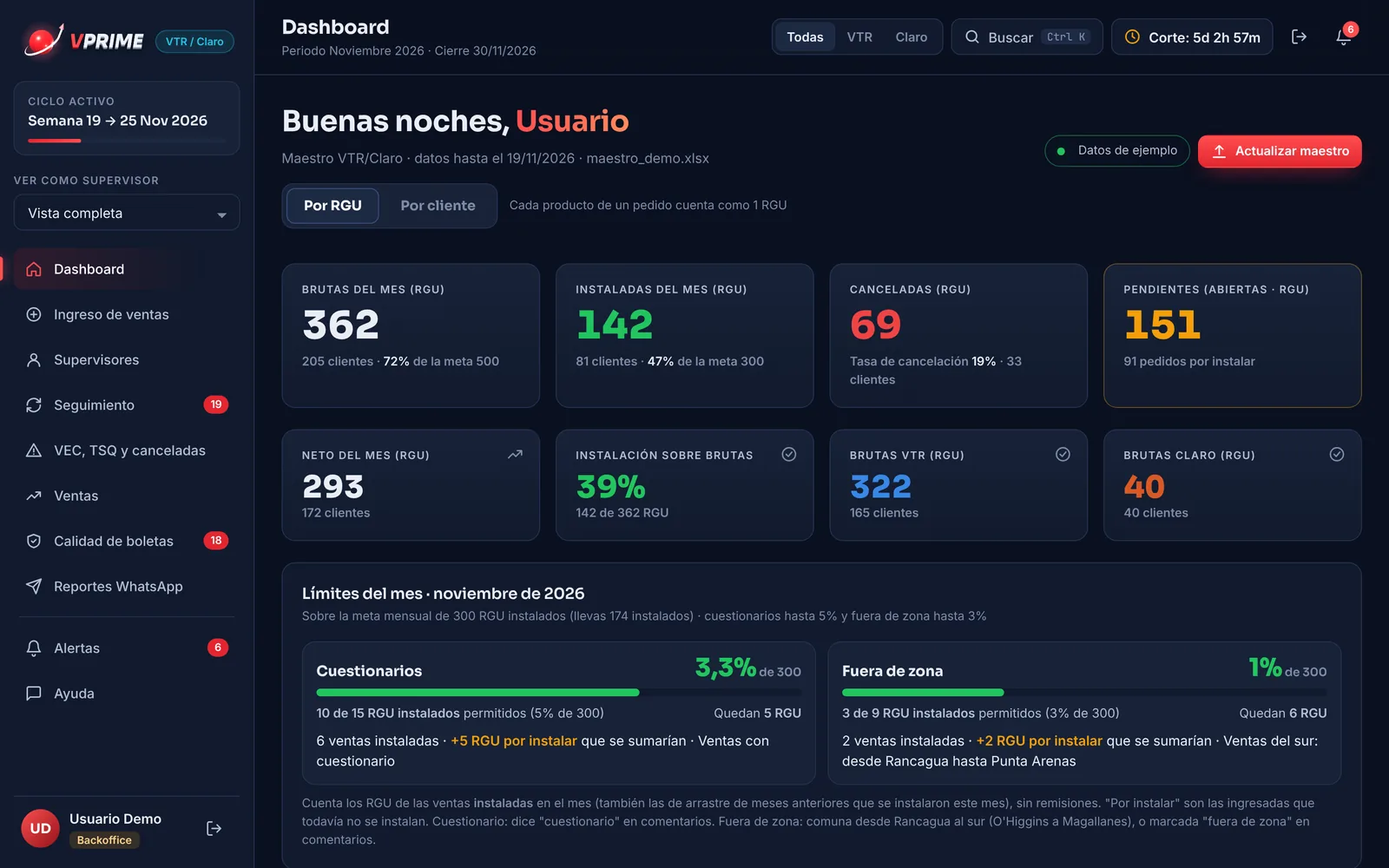
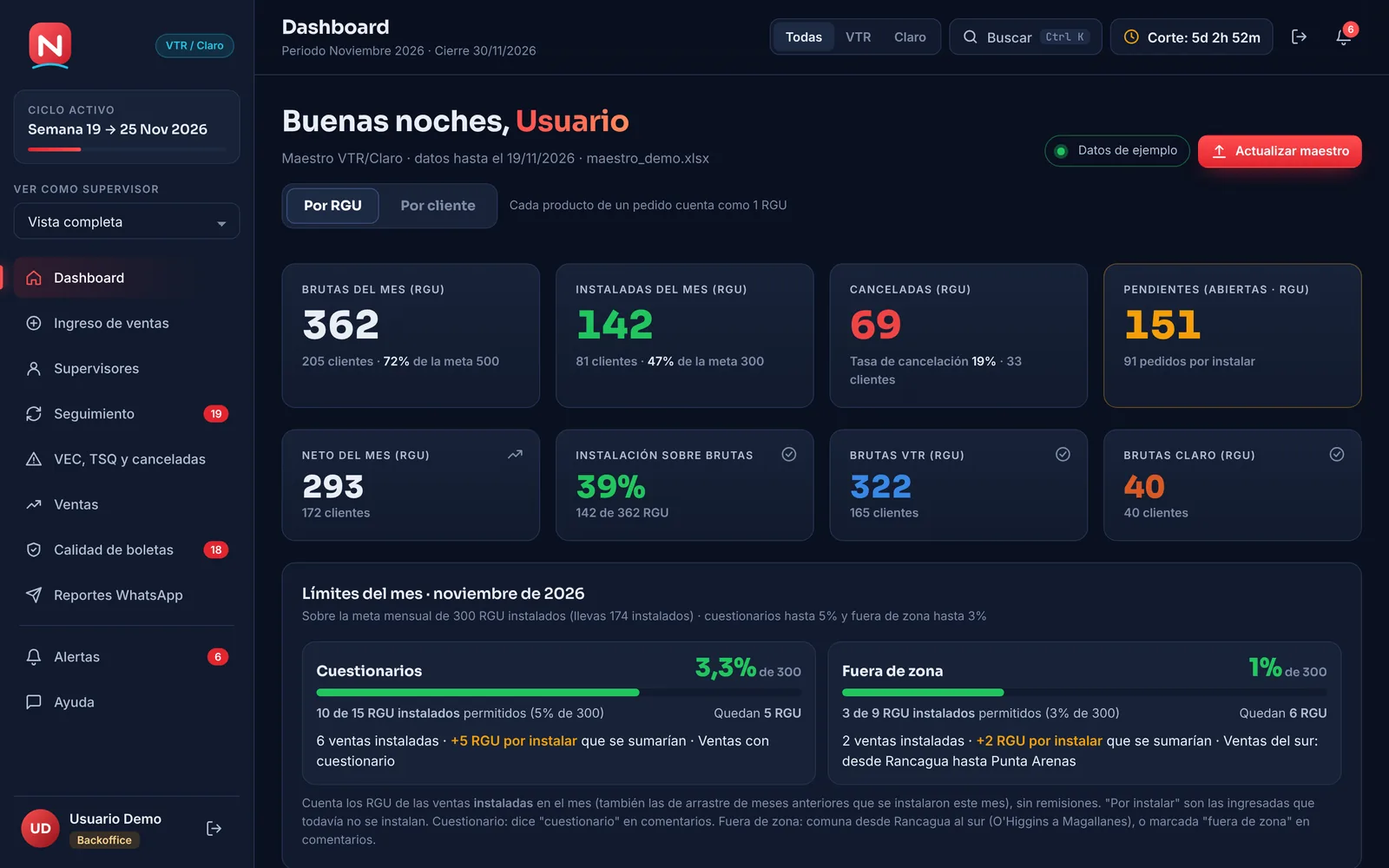
Portal de Ventas sin el nombre de la empresa: marca, nombres y datos ficticios
Claude-Session: https://claude.ai/code/session_011Kgio7roymSgEiRKBt3G3E

diff --git a/portal-ventas/index.html b/portal-ventas/index.html
@@ -13,14 +13,14 @@
 <meta name="apple-mobile-web-app-capable" content="yes">
 <meta name="mobile-web-app-capable" content="yes">
 <meta name="apple-mobile-web-app-status-bar-style" content="black-translucent">
-<meta name="apple-mobile-web-app-title" content="VPrime">
+<meta name="apple-mobile-web-app-title" content="NovaVentas">
 <link rel="icon" type="image/png" sizes="192x192" href="icons/icon-192.png">
 <link rel="apple-touch-icon" href="icons/apple-touch-icon.png">
 <link rel="preconnect" href="https://fonts.googleapis.com">
 <link rel="preconnect" href="https://fonts.gstatic.com" crossorigin>
 <link rel="stylesheet" href="https://fonts.googleapis.com/css2?family=Sora:wght@500;600;700;800&family=Inter:wght@400;500;600&family=JetBrains+Mono:wght@500&display=swap">
 <style>
-/* Layout: sidebar de navegación fija + área de trabajo con barra superior; todo en un navy profundo con el rojo VPrime como acento de marca. */
+/* Layout: sidebar de navegación fija + área de trabajo con barra superior; todo en un navy profundo con el rojo NovaVentas como acento de marca. */
 :root {
   color-scheme: dark;
   --bg: #0a1020;
@@ -31,7 +31,7 @@
   --fg: #e9edf5;
   --fg-2: #b4bed3;
   --muted: #7f8ba6;
-  --accent: #e3262f;          /* rojo VPrime */
+  --accent: #e3262f;          /* rojo NovaVentas */
   --accent-hi: #ff4d4f;
   --accent-soft: rgba(227, 38, 47, .14);
   --cyan: #22c3e6;
@@ -803,7 +803,7 @@ body.sup-mode .bell-dot { background: var(--accent); }
   <div class="login-visual">
     <canvas id="globe" aria-hidden="true"></canvas>
     <canvas id="logo3d" aria-hidden="true"></canvas>
-    <img src="assets/vprime-logo-hd.svg" alt="VPrime" width="132" height="114">
+    <img src="assets/logo-demo.svg" alt="NovaVentas" width="132" height="114">
     <div class="login-copy">
       <div class="eyebrow" style="color:#ff9a9b">Portal interno · VTR / Claro</div>
       <h1>Todas tus ventas, <em>en un solo lugar.</em></h1>
@@ -819,9 +819,9 @@ body.sup-mode .bell-dot { background: var(--accent); }
     <form class="login-card" id="loginForm" novalidate>
       <div>
         <h2>Ingreso colaboradores</h2>
-        <div class="sub" id="lgSub">Usa tu RUT o correo corporativo @vprime.cl</div>
+        <div class="sub" id="lgSub">Usa tu RUT o correo corporativo @novaventas.cl</div>
       </div>
-      <div class="restricted"><svg class="i" viewBox="0 0 24 24"><rect x="4" y="11" width="16" height="10" rx="2"/><path d="M8 11V7a4 4 0 0 1 8 0v4"/></svg><span>Acceso restringido a personal de VPrime. Cada ingreso queda registrado.</span></div>
+      <div class="restricted"><svg class="i" viewBox="0 0 24 24"><rect x="4" y="11" width="16" height="10" rx="2"/><path d="M8 11V7a4 4 0 0 1 8 0v4"/></svg><span>Acceso restringido a personal de NovaVentas. Cada ingreso queda registrado.</span></div>
       <div class="field">
         <label for="lgUser" id="lgUserLbl">RUT o correo</label>
         <div class="input-icon"><svg class="i" viewBox="0 0 24 24"><circle cx="12" cy="8" r="4"/><path d="M4 21a8 8 0 0 1 16 0"/></svg><input class="input" id="lgUser" autocomplete="username"></div>
@@ -833,7 +833,7 @@ body.sup-mode .bell-dot { background: var(--accent); }
       </div>
       <div id="lgErr"></div>
       <button class="btn primary block" id="lgBtn" type="submit">Ingresar <svg class="i" viewBox="0 0 24 24"><path d="M5 12h14M13 6l6 6-6 6"/></svg></button>
-      <div class="hint" id="lgForgotBox" style="text-align:center;color:var(--muted);font-size:12px">¿Olvidaste tu clave? Pídela a tu supervisor o a soporte@tuempresa.cl</div>
+      <div class="hint" id="lgForgotBox" style="text-align:center;color:var(--muted);font-size:12px">¿Olvidaste tu clave? Pídela a tu supervisor o a soporte@novaventas.cl</div>
     </form>
   </div>
 </section>
@@ -842,7 +842,7 @@ body.sup-mode .bell-dot { background: var(--accent); }
 <div id="app" hidden>
   <aside class="sidebar" id="sidebar">
     <div class="brand-row">
-      <a class="brand-3d" id="brand3d" href="#dashboard" aria-label="VPrime, ir al dashboard"><canvas width="92" height="92" hidden aria-hidden="true"></canvas><span class="wordmark" hidden><b>V</b>PRIME</span><img src="assets/vprime-logo-hd.svg" alt="VPrime" width="64" height="55"></a>
+      <a class="brand-3d" id="brand3d" href="#dashboard" aria-label="NovaVentas, ir al dashboard"><canvas width="92" height="92" hidden aria-hidden="true"></canvas><span class="wordmark" hidden><b>N</b>OVA</span><img src="assets/logo-demo.svg" alt="NovaVentas" width="64" height="55"></a>
       <span class="brand-tag">VTR / Claro</span>
     </div>
     <div class="cycle">
@@ -858,7 +858,7 @@ body.sup-mode .bell-dot { background: var(--accent); }
       <button class="btn sm ghost" id="logoutSide" style="justify-content:flex-start;color:#ff8f93;border-color:rgba(227,38,47,.35)"><svg class="i" viewBox="0 0 24 24"><path d="M9 21H5a2 2 0 0 1-2-2V5a2 2 0 0 1 2-2h4M16 17l5-5-5-5M21 12H9"/></svg>Cerrar sesión</button>
       <div class="me">
         <div class="avatar">VP</div>
-        <div style="min-width:0"><b>Equipo VPrime</b><span class="role">Backoffice</span></div>
+        <div style="min-width:0"><b>Equipo NovaVentas</b><span class="role">Backoffice</span></div>
         <button class="icon-btn out" style="margin-left:auto" id="logout" title="Cerrar sesión" aria-label="Cerrar sesión"><svg class="i" viewBox="0 0 24 24"><path d="M9 21H5a2 2 0 0 1-2-2V5a2 2 0 0 1 2-2h4M16 17l5-5-5-5M21 12H9"/></svg></button>
       </div>
     </div>
@@ -914,7 +914,7 @@ function cargarLib(n) {
 }
 const xlsxListo = () => cargarLib('xlsx');
 // En teléfonos (o con ahorro de datos) el logo queda como imagen HD: el 3D pesa 589 KB y a ese tamaño se ve igual.
-const logo3DOk = () => !REDUCED && !matchMedia('(max-width: 900px)').matches && !(navigator.connection && navigator.connection.saveData);
+const logo3DOk = () => false && !REDUCED && !matchMedia('(max-width: 900px)').matches && !(navigator.connection && navigator.connection.saveData);
 const fmt = n => Number(n).toLocaleString('es-CL');
 const clp = n => '$' + fmt(n);
 
@@ -1160,7 +1160,7 @@ const pct = (a, b) => b ? Math.round(a / b * 100) : 0;
 const EST_CODES = ['en_plazo', 'fuera_plazo', 'por_vencer', 'vencida'];
 
 
-// Metas de VPrime: siempre 100% de boletas pagadas en plazo y 100% de ventas instaladas.
+// Metas de NovaVentas: siempre 100% de boletas pagadas en plazo y 100% de ventas instaladas.
 // VTR exige un mínimo de 90% en boletas: entre 90% y 100% se muestra en amarillo (cumple VTR, falta para la meta).
 const META_BOL = 1, MIN_VTR_BOL = .9, META_INST = 1;
 const toneBol = p => p == null ? 'var(--muted)' : p >= META_BOL ? 'var(--good)' : p >= MIN_VTR_BOL ? 'var(--warn)' : 'var(--crit)';
@@ -1480,7 +1480,7 @@ function alertas() {
     const rows = segRows(), by = t => rows.filter(r => r.acc && r.acc.tipo === t).length;
     add('serious', by('instalar') + by('cancelar'), 'Ventas con estado desactualizado en la planilla', 'VTR ya las tiene instaladas o canceladas, pero la planilla no. Se actualizan con un clic.', '#seguimiento', 'Actualizar', () => { SEG.soloAccion = by('instalar') ? 'instalar' : 'cancelar'; });
     add('warn', by('conflicto'), 'Planilla y VTR no coinciden', 'La planilla dice instalada o cancelada, pero VTR la tiene abierta.', '#seguimiento', 'Revisar', () => { SEG.soloAccion = 'conflicto'; });
-    add('warn', by('agregar'), 'Pedidos del maestro que faltan en la planilla', 'Están en el maestro de VPrime pero nadie los ingresó.', '#seguimiento', 'Agregar', () => { SEG.soloAccion = 'agregar'; });
+    add('warn', by('agregar'), 'Pedidos del maestro que faltan en la planilla', 'Están en el maestro de NovaVentas pero nadie los ingresó.', '#seguimiento', 'Agregar', () => { SEG.soloAccion = 'agregar'; });
     add('info', by('motivo'), 'Canceladas sin motivo', 'Sin el motivo no se puede saber por qué se caen las ventas.', '#seguimiento', 'Anotar motivos', () => { SEG.soloAccion = 'motivo'; });
   }
   // Respaldo semanal (solo para quien puede descargarlo)
@@ -1564,7 +1564,7 @@ function viewAyuda(el) {
     ${sec('Rutina diaria', ['<b>Mañana:</b> subir el maestro VTR/Claro del día (Dashboard → Actualizar maestro).', '<b>Durante el día:</b> ingresar cada venta en <b>Ingreso de ventas</b> y actualizar su estado (COMPLETADO, REAGENDADO…) directo en la tabla.', '<b>12:00, 16:00, 19:00 y 21:00:</b> enviar el corte desde <b>Reportes WhatsApp</b>.', '<b>Antes de cerrar:</b> revisar <b>Alertas</b> y <b>Seguimiento</b> para dejar la planilla al día con VTR.'])}
     ${sec('Archivos que se suben', ['<b>Maestro VTR/Claro</b> (diario): hoja con NUM_PEDIDO y estado_pedido. Alimenta Dashboard, Ventas y Seguimiento.', '<b>Planilla de emisiones</b> (solo para migrar meses anteriores): Ingreso de ventas → Importar planilla, una hoja por mes.', '<b>Reporte de 1° boleta</b> (mensual): Calidad de boletas → Subir reporte. Luego, "Pasar estados a la planilla".', 'Cualquiera de los tres se reconoce solo, aunque se suba en otra sección.'])}
     ${sec('Secciones', ['<b>Dashboard:</b> brutas, instaladas, canceladas y pendientes del maestro, metas por plaza y calidad.', '<b>Ingreso de ventas:</b> reemplaza la planilla; cada venta queda registrada con quién la ingresó y su tipo (venta normal, error TSQ, error NAP o reingreso), y tiene su ficha con instalación, reagenda, boleta e historial de cambios.', '<b>Supervisores:</b> una tarjeta por supervisor con sus ventas, instaladas, por instalar, sin agenda y canceladas; al tocarla se buscan y actualizan sus ventas.', '<b>Plan modificado:</b> si el plan o los RGU que quedaron en VTR/Claro no son los vendidos, la venta aparece en Revisiones y Alertas para apelar.', '<b>Seguimiento:</b> cruza la planilla con el maestro y propone las correcciones.', '<b>VEC, TSQ y canceladas:</b> estado de cada VEC (por pedir, pedida, aprobada, rechazada), tickets de error TSQ/NAP y motivo de cada cancelación.', '<b>Ventas:</b> los pedidos del maestro con su estado en VTR/Claro.', '<b>Calidad de boletas:</b> pagadas en plazo, cobranza del día, reclamos y calidad por supervisor y ejecutivo.', '<b>Reportes WhatsApp:</b> cortes con VIÑA // RM // OTROS listos para enviar.', '<b>Roles:</b> el <b>backoffice</b> ve y actualiza las ventas de todos los supervisores (en Ingreso de ventas, panel "Por supervisor"); cada <b>supervisor</b> ve solo "Mis ventas", sin editar; <b>solo lectura</b> mira todo sin cambiar nada.'])}
-    ${sec('Cómo se calcula', ['<b>RGU</b> = productos de la venta (Fibra 800 + TV = 2 RGU).', '<b>Calidad:</b> RGU pagados en plazo ÷ (total de RGU − pagados fuera de plazo). Meta VPrime: 100% (VTR exige mínimo 90%). Pagar hasta el día 8 (vencimiento + 8) es en plazo.', '<b>Reporte diario:</b> RGU emitidos hoy, sin remisiones. <b>Mensual:</b> sin remisiones ni ventas con error TSQ/NAP o ticket.', '<b>VIÑA</b> = supervisor Rodrigo Vera, <b>RM</b> = Camila Herrera, <b>OTROS</b> = el resto (se cambia en Reportes).'])}
+    ${sec('Cómo se calcula', ['<b>RGU</b> = productos de la venta (Fibra 800 + TV = 2 RGU).', '<b>Calidad:</b> RGU pagados en plazo ÷ (total de RGU − pagados fuera de plazo). Meta NovaVentas: 100% (VTR exige mínimo 90%). Pagar hasta el día 8 (vencimiento + 8) es en plazo.', '<b>Reporte diario:</b> RGU emitidos hoy, sin remisiones. <b>Mensual:</b> sin remisiones ni ventas con error TSQ/NAP o ticket.', '<b>VIÑA</b> = supervisor Rodrigo Vera, <b>RM</b> = Camila Herrera, <b>OTROS</b> = el resto (se cambia en Reportes).'])}
   </div>
   <div class="card" id="ayudaAdmin"></div>`;
   renderAyudaAdmin();
@@ -1572,7 +1572,7 @@ function viewAyuda(el) {
 function renderAyudaAdmin() {
   const box = $('#ayudaAdmin'); if (!box) return;
   box.innerHTML = `<h3 style="font-size:16px;margin-bottom:6px">Soporte y administración</h3>
-    <p class="note" style="margin:0 0 12px">Para crear usuarios, cambiar permisos o reportar un problema, contacta a quien administra el portal en VPrime.</p>
+    <p class="note" style="margin:0 0 12px">Para crear usuarios, cambiar permisos o reportar un problema, contacta a quien administra el portal en NovaVentas.</p>
     <div style="display:flex;gap:10px;flex-wrap:wrap"><button class="btn sm" id="ayInstall">${ic('download')}Instalar en el teléfono</button>${STANDALONE ? `<button class="btn sm" id="ayClave">${ic('shield')}Cambiar mi contraseña</button>` : ''}</div>
     ${puedeRespaldar() ? `<div style="margin-top:18px;padding-top:16px;border-top:1px solid var(--line)">
       <h3 style="font-size:15px;margin-bottom:4px">Respaldo completo</h3>
@@ -1581,7 +1581,7 @@ function renderAyudaAdmin() {
       <div id="bkMsg" class="note" style="margin-top:8px">${RESPALDO.ult ? `Último respaldo: ${fmtFecha(isoOf(new Date(RESPALDO.ult.en)))}${RESPALDO.ult.por ? ' por ' + esc(RESPALDO.ult.por) : ''}.` : ''}</div></div>` : ''}
     ${STANDALONE && ROLE.rol === 'admin' && !ROLE.preview ? `<div class="dt-box"><h3 style="font-size:15px;margin-bottom:4px">Cambiar la contraseña de un usuario</h3>
       <p class="note" style="margin:0 0 12px">Si a alguien no le llega el correo de "¿Olvidaste tu contraseña?", asígnale aquí una clave temporal y díctasela. Después puede cambiarla él mismo.</p>
-      <form id="ccForm" class="form-grid" novalidate style="align-items:end"><div class="field"><label for="ccMail">Correo del usuario</label><input class="input" type="email" id="ccMail" autocomplete="off" placeholder="nombre@vprime.cl"></div>
+      <form id="ccForm" class="form-grid" novalidate style="align-items:end"><div class="field"><label for="ccMail">Correo del usuario</label><input class="input" type="email" id="ccMail" autocomplete="off" placeholder="nombre@novaventas.cl"></div>
         <div class="field"><label for="ccPass">Clave temporal (mínimo 8)</label><input class="input mono" type="text" id="ccPass" autocomplete="off"></div>
         <div class="field"><button class="btn sm" type="button" id="ccGen">Generar una</button></div>
         <div class="field"><button class="btn sm primary" type="submit" id="ccSave">Cambiar contraseña</button></div></form><div id="ccMsg" class="note" style="margin-top:8px"></div></div>` : ''}
@@ -1621,7 +1621,7 @@ const fechaHora = iso => iso ? `${fmtFecha(isoOf(new Date(iso)))} ${new Date(iso
 function datosPanelHTML() {
   if (!verEstadoDatos()) return '';
   const head = `<h3 style="font-size:15px;margin-bottom:4px">Dónde quedan guardadas las ventas</h3>
-    <p class="note" style="margin:0 0 12px">Cada venta se guarda en la base de datos de VPrime (Supabase · PostgreSQL) en el momento en que se ingresa o se modifica, no en el teléfono ni en el computador. Cada cambio deja guardada la versión anterior, y la base hace una copia completa automática todas las noches.</p>`;
+    <p class="note" style="margin:0 0 12px">Cada venta se guarda en la base de datos de NovaVentas (Supabase · PostgreSQL) en el momento en que se ingresa o se modifica, no en el teléfono ni en el computador. Cada cambio deja guardada la versión anterior, y la base hace una copia completa automática todas las noches.</p>`;
   const wrap = h => `<div class="dt-box" id="datosBox">${head}${h}</div>`;
   if (!DATOS.e && !DATOS.err) { datosCargar().then(() => { if (currentView() === 'ayuda') renderAyudaAdmin(); }); return wrap('<p class="note">Consultando la base de datos…</p>'); }
   if (DATOS.err === 'falta') return wrap(`<div class="restricted">${ic('alertc')}<span><b>Falta activar los respaldos automáticos en la base.</b> ${ROLE.rol === 'admin' ? 'Abre Supabase → SQL Editor, pega el archivo <span class="mono">supabase/schema.sql</span> completo y presiona Run. Se puede ejecutar de nuevo sin perder datos.' : 'Pídele a un administrador que lo active.'}</span></div>`);
@@ -1717,8 +1717,8 @@ async function respaldo(tipo, dia) {
     const n = `${fmt(B.colecciones.emisiones.length)} ventas, ${fmt(B.colecciones.calidad.length)} períodos de calidad, ${fmt(B.colecciones.reclamos.length)} reclamos, ${fmt(B.colecciones.maestro.length)} maestros`;
     msg('Preparando el archivo…');
     const r = tipo === 'json'
-      ? await dl.save({ filename: `Respaldo_VPrime_${hoy}.json`, data: new TextEncoder().encode(JSON.stringify(B)) })
-      : await dl.save({ filename: `Respaldo_VPrime_${hoy}.xlsx`, data: new Uint8Array(XLSX.write(respaldoLibro(B), { bookType: 'xlsx', type: 'array', compression: true })) });
+      ? await dl.save({ filename: `Respaldo_NovaVentas_${hoy}.json`, data: new TextEncoder().encode(JSON.stringify(B)) })
+      : await dl.save({ filename: `Respaldo_NovaVentas_${hoy}.xlsx`, data: new Uint8Array(XLSX.write(respaldoLibro(B), { bookType: 'xlsx', type: 'array', compression: true })) });
     msg(r && r.status === 'saved' ? `Respaldo descargado: ${n}.` : `Descarga cancelada (${n}).`);
     if (r && r.status === 'saved') { try { await COB.db.doc('config/respaldo').set({ en: new Date().toISOString(), por: USER.name || '', tipo, ventas: B.colecciones.emisiones.length }); } catch (e) { /* sin permiso para anotar */ } }
   } catch (e) { msg('No se pudo armar el respaldo: ' + ((e && e.message) || 'error de conexión') + '. Intenta de nuevo.'); }
@@ -2031,7 +2031,7 @@ function viewDashboardReal(el) {
   </div>
   <div id="limDash"></div>
   ${M && (M.instalada.length || M.emision.length) ? `<div class="card">
-    <div class="card-h"><div><h3>Avance de metas por plaza</h3><p>${porRgu ? '' : 'Las metas son en RGU · '}${dias.mes ? `Día hábil ${dias.reales} de ${dias.mes} · quedan ${dias.restantes}` : 'Metas de la hoja dinámica'}${state.brand !== 'todas' ? ' · las metas son del total VPrime (VTR + Claro)' : ''}</p></div></div>
+    <div class="card-h"><div><h3>Avance de metas por plaza</h3><p>${porRgu ? '' : 'Las metas son en RGU · '}${dias.mes ? `Día hábil ${dias.reales} de ${dias.mes} · quedan ${dias.restantes}` : 'Metas de la hoja dinámica'}${state.brand !== 'todas' ? ' · las metas son del total NovaVentas (VTR + Claro)' : ''}</p></div></div>
     <div style="display:grid;gap:18px">${[['Instalación', M.instalada, 'inst'], ['Emisión (brutas)', M.emision, 'brutas']].filter(x => x[1].length).map(([t, list, k]) => maeMetaTable(t, list, k, A.rows, dias)).join('')}</div>
   </div>` : ''}
   <div class="card" id="cobDash"></div>
@@ -3146,7 +3146,7 @@ async function emiExport() {
   const ws = XLSX.utils.aoa_to_sheet(rows, { cellDates: true, dateNF: 'dd/mm/yyyy' });
   ws['!cols'] = [16, 12, 13, 24, 22, 24, 16, 30, 18, 12, 10, 10, 22, 22, 22, 12, 12, 12, 10, 14, 16, 16, 16, 18].map(w => ({ wch: w }));
   const wb = XLSX.utils.book_new(); XLSX.utils.book_append_sheet(wb, ws, mesLabel(EMI.mes).slice(0, 31));
-  try { const r = await dl.save({ filename: `Emisiones_ventas_VPrime_${EMI.mes}.xlsx`, data: new Uint8Array(XLSX.write(wb, { bookType: 'xlsx', type: 'array' })) }); if (r && r.status === 'saved') toast('Excel descargado', 'download'); }
+  try { const r = await dl.save({ filename: `Emisiones_ventas_NovaVentas_${EMI.mes}.xlsx`, data: new Uint8Array(XLSX.write(wb, { bookType: 'xlsx', type: 'array' })) }); if (r && r.status === 'saved') toast('Excel descargado', 'download'); }
   catch (e) { if (e && e.code === 'unavailable') toast('Las descargas no están disponibles en esta vista.', 'alertc'); }
 }
 
@@ -3351,7 +3351,7 @@ async function segRun(list, label) {
 
 
 
-/* ---------- LOGO VPRIME EN 3D (Three.js) ---------- */
+/* ---------- LOGO NOVAVENTAS EN 3D (Three.js) ---------- */
 // Esfera roja con estela blanca y flecha, como el logo. Devuelve una función para detenerla, o null si no hay WebGL.
 function makeLogo3D(canvas, opt = {}) {
   if (!window.THREE || !canvas) return null;
@@ -3505,26 +3505,26 @@ function updateBottomNav(cur) {
   });
 }
 $('#bnMore').addEventListener('click', () => $('#sidebar').classList.toggle('open'));
-const PORTAL_URL = window.VP_STANDALONE ? ((window.VPRIME_CONFIG || {}).appUrl || location.origin + location.pathname) : 'https://claude.ai/artifact/BZRdoPNhUP4QLB89qohyPU';
+const PORTAL_URL = window.VP_STANDALONE ? ((window.NOVAVENTAS_CONFIG || {}).appUrl || location.origin + location.pathname) : 'https://claude.ai/artifact/BZRdoPNhUP4QLB89qohyPU';
 function openInstall() {
   const link = PORTAL_URL;
   const enTelefono = matchMedia('(max-width: 900px)').matches;
   openDrawer(`
-  <div class="drawer-h"><div style="flex:1"><div class="eyebrow">Portal VPrime</div><h3>Tenerlo como app en el teléfono</h3></div><button class="icon-btn" data-close aria-label="Cerrar">${ic('x')}</button></div>
+  <div class="drawer-h"><div style="flex:1"><div class="eyebrow">Portal NovaVentas</div><h3>Tenerlo como app en el teléfono</h3></div><button class="icon-btn" data-close aria-label="Cerrar">${ic('x')}</button></div>
   <div class="drawer-b install-steps">
-    <p style="margin:0;color:var(--fg-2)">El portal queda como un ícono en la pantalla de inicio y se abre como una app. ${window.VP_STANDALONE ? 'Cada colaborador entra con el correo y la contraseña que le crea un administrador de VPrime.' : 'Cada colaborador entra con su cuenta de claude.ai. Antes, quien administra el portal tiene que invitarlo con ese mismo correo desde <b>Compartir</b>; si no, al abrir el link aparece "Página no encontrada".'}</p>
-    ${window.VP_STANDALONE && (window.VPRIME_CONFIG || {}).apkUrl ? `<a class="btn primary" href="${esc(window.VPRIME_CONFIG.apkUrl)}" target="_blank" rel="noopener">${ic('download')}Descargar app para Android (APK)</a>` : ''}
-    ${enTelefono ? '' : `<div class="os-card" style="justify-items:center;text-align:center"><h4>${ic('eye')}Escanea con la cámara del teléfono</h4><div id="instQR" role="img" aria-label="Código QR del portal VPrime" style="width:232px;height:232px;border-radius:14px;background:#fff;padding:8px;display:grid;place-items:center"><img src="assets/qr-portal-vprime.png" alt="" width="216" height="216"></div><span class="note">Se abre el portal en el teléfono; después sigue los pasos de abajo.</span></div>`}
+    <p style="margin:0;color:var(--fg-2)">El portal queda como un ícono en la pantalla de inicio y se abre como una app. ${window.VP_STANDALONE ? 'Cada colaborador entra con el correo y la contraseña que le crea un administrador de NovaVentas.' : 'Cada colaborador entra con su cuenta de claude.ai. Antes, quien administra el portal tiene que invitarlo con ese mismo correo desde <b>Compartir</b>; si no, al abrir el link aparece "Página no encontrada".'}</p>
+    ${window.VP_STANDALONE && (window.NOVAVENTAS_CONFIG || {}).apkUrl ? `<a class="btn primary" href="${esc(window.NOVAVENTAS_CONFIG.apkUrl)}" target="_blank" rel="noopener">${ic('download')}Descargar app para Android (APK)</a>` : ''}
+    ${enTelefono ? '' : `<div class="os-card" style="justify-items:center;text-align:center"><h4>${ic('eye')}Escanea con la cámara del teléfono</h4><div id="instQR" role="img" aria-label="Código QR del portal NovaVentas" style="width:232px;height:232px;border-radius:14px;background:#fff;padding:8px;display:grid;place-items:center"><img src="assets/qr-portal-novaventas.png" alt="" width="216" height="216"></div><span class="note">Se abre el portal en el teléfono; después sigue los pasos de abajo.</span></div>`}
     <div class="os-card"><h4>${ic('download')}iPhone (Safari)</h4><ol>
       <li>Abre el link del portal en <b>Safari</b> e inicia sesión.</li>
       <li>Toca el botón <b>Compartir</b> (el cuadrado con la flecha hacia arriba).</li>
-      <li>Elige <b>Agregar a pantalla de inicio</b>, ponle de nombre <b>VPrime</b> y toca <b>Agregar</b>.</li></ol></div>
+      <li>Elige <b>Agregar a pantalla de inicio</b>, ponle de nombre <b>NovaVentas</b> y toca <b>Agregar</b>.</li></ol></div>
     <div class="os-card"><h4>${ic('download')}Android (Chrome)</h4><ol>
       <li>Abre el link del portal en <b>Chrome</b> e inicia sesión.</li>
       <li>Toca el menú <b>⋮</b> arriba a la derecha.</li>
       <li>Elige <b>Agregar a la pantalla principal</b> (o <b>Instalar app</b> si aparece) y confirma.</li></ol></div>
     <div class="field"><label for="instLink">Link del portal</label><div class="copy-row"><input class="input" id="instLink" readonly value="${esc(link)}"><button class="btn sm" id="instCopy">Copiar</button></div><span class="hint">Puedes enviarlo por WhatsApp o correo a tu equipo.</span></div>
-    <p class="note" style="margin:0">El ícono puede verse con el logo de Claude en vez del de VPrime: el portal vive dentro de claude.ai. Funciona igual.</p>
+    <p class="note" style="margin:0">El ícono puede verse con el logo de Claude en vez del de NovaVentas: el portal vive dentro de claude.ai. Funciona igual.</p>
   </div>`);
   const qbox = $('#instQR');
   if (qbox && window.QRCode && window.VP_STANDALONE) { qbox.innerHTML = ''; new QRCode(qbox, { text: link, width: 216, height: 216, colorDark: '#0a1020', colorLight: '#ffffff', correctLevel: QRCode.CorrectLevel.M }); }
@@ -3823,13 +3823,13 @@ function renderCalBody() {
   const tone = toneBol;
   const pctPlazo = venc ? g('en_plazo') / venc : null;
   const totR = rows.reduce((t, x) => t + rgu(x), 0);
-  // Indicador oficial: RGU pagados en plazo ÷ (total de RGU − pagados fuera de plazo). Meta VPrime 100% (VTR exige 90%).
+  // Indicador oficial: RGU pagados en plazo ÷ (total de RGU − pagados fuera de plazo). Meta NovaVentas 100% (VTR exige 90%).
   const META = META_BOL, fueraR = g('fuera') + g('fuera_nc'), baseR = totR - fueraR;
   const pctTotal = baseR ? g('en_plazo') / baseR : null;
   const faltan = Math.max(0, Math.ceil(META * baseR - 1e-9) - g('en_plazo'));
   const montoTot = rows.reduce((t, x) => t + x.r[CI.monto], 0);
   box.innerHTML = `
-  <div class="prev-banner">${ic('sheet')}<div class="grow"><b>${esc(A.archivo || '')}</b> · ${fmt(A.rows.length)} boletas de ventas instaladas en ${PERIODO_LABEL(A.id).toLowerCase()}${A.soloVista ? ' · <b style="color:var(--warn)">solo en esta pantalla</b>' : ''}<br><span class="note">Los estados se recalculan con la fecha de corte: pagó hasta el día 8 = en plazo; sin pago antes del vencimiento = pendiente; entre vencimiento y día 8 = pendiente vencido; después del día 8 = no pagado. La calidad se mide en RGU: pagados en plazo sobre el total del mes, sin contar los pagados fuera de plazo. Meta VPrime: 100% (VTR exige mínimo 90%).</span></div>
+  <div class="prev-banner">${ic('sheet')}<div class="grow"><b>${esc(A.archivo || '')}</b> · ${fmt(A.rows.length)} boletas de ventas instaladas en ${PERIODO_LABEL(A.id).toLowerCase()}${A.soloVista ? ' · <b style="color:var(--warn)">solo en esta pantalla</b>' : ''}<br><span class="note">Los estados se recalculan con la fecha de corte: pagó hasta el día 8 = en plazo; sin pago antes del vencimiento = pendiente; entre vencimiento y día 8 = pendiente vencido; después del día 8 = no pagado. La calidad se mide en RGU: pagados en plazo sobre el total del mes, sin contar los pagados fuera de plazo. Meta NovaVentas: 100% (VTR exige mínimo 90%).</span></div>
     <div class="field" style="min-width:170px"><label for="calCorte">Fecha de corte</label><input class="input" type="date" id="calCorte" value="${corte}" style="height:38px"></div></div>
   <div class="kpis" style="grid-template-columns:repeat(auto-fit,minmax(min(100%,190px),1fr))">
     <div class="kpi"><div class="eyebrow">Total del mes (RGU)</div><div class="big" data-count="${totR}">0</div><div class="delta" style="color:var(--muted)">${fmt(rows.length)} boletas · ${clp(montoTot)}<br>Para la meta se descuentan ${fmt(fueraR)} RGU pagados fuera de plazo</div></div>
@@ -3993,11 +3993,11 @@ async function calExportReclamos() {
   const dl = window.claude && typeof window.claude.use === 'function' ? await window.claude.use('downloads') : null;
   if (!dl || !(await xlsxListo())) { toast('La descarga funciona en el portal publicado.', 'alertc'); return; }
   const rows = [['MARCA', 'MES DE EVALUACION', 'RUT CLIENTE', 'NUMERO DE PEDIDO', 'OPERADOR', 'NÚMERO DE BOLETA', 'FECHADEVENCIMIENTO', 'FECHA DE PAGO', 'MOTIVO', 'OBSERVACION', 'ZONA', 'CORRECCION PEDIDA', 'ESTADO RECLAMO']];
-  Object.values(CAL.rec).sort((a, b) => (a.periodo || '').localeCompare(b.periodo || '')).forEach(x => rows.push([x.marca, Number(x.periodo) || x.periodo, x.rut, x.pedido, 'VPRIME', 1, x.venc ? isoToDate(x.venc) : '', x.fpago ? isoToDate(x.fpago) : '', x.motivo, x.observacion, x.zona, x.cambio, x.estado]));
+  Object.values(CAL.rec).sort((a, b) => (a.periodo || '').localeCompare(b.periodo || '')).forEach(x => rows.push([x.marca, Number(x.periodo) || x.periodo, x.rut, x.pedido, 'NOVAVENTAS', 1, x.venc ? isoToDate(x.venc) : '', x.fpago ? isoToDate(x.fpago) : '', x.motivo, x.observacion, x.zona, x.cambio, x.estado]));
   const ws = XLSX.utils.aoa_to_sheet(rows, { cellDates: true, dateNF: 'dd/mm/yyyy' });
   ws['!cols'] = [8, 12, 13, 16, 10, 10, 14, 12, 30, 50, 8, 24, 14].map(w => ({ wch: w }));
   const wb = XLSX.utils.book_new(); XLSX.utils.book_append_sheet(wb, ws, 'Reclamos');
-  try { const r = await dl.save({ filename: `Reclamos_boletas_VPrime_${isoOf(new Date())}.xlsx`, data: new Uint8Array(XLSX.write(wb, { bookType: 'xlsx', type: 'array' })) }); if (r && r.status === 'saved') toast('Reclamos descargados', 'download'); } catch (e) { /* cancelado */ }
+  try { const r = await dl.save({ filename: `Reclamos_boletas_NovaVentas_${isoOf(new Date())}.xlsx`, data: new Uint8Array(XLSX.write(wb, { bookType: 'xlsx', type: 'array' })) }); if (r && r.status === 'saved') toast('Reclamos descargados', 'download'); } catch (e) { /* cancelado */ }
 }
 // Copia vencimiento, día 8, monto, estado y fecha de pago de VTR a la ficha de cada venta en la planilla.
 function calBoletaPatch(r) { return { venc: r[CI.venc], plazo: r[CI.dia8], monto: r[CI.monto], estado: BE[beKey(r[CI.est])].vtr || r[CI.est], pagada: r[CI.fpago], nota: r[CI.obs] }; }
@@ -4056,7 +4056,7 @@ function repMensaje(dia, mes, fecha, corte) {
     `• VIÑA (${REP.vina}): *${dia.vina}* RGU`,
     `• RM (${REP.rm}): *${dia.rm}* RGU`,
     `• OTROS: *${dia.otros}* RGU`,
-    `*TOTAL EMISIONES VPRIME: ${dia.total} RGU*`,
+    `*TOTAL EMISIONES NOVAVENTAS: ${dia.total} RGU*`,
     '',
     '⚠ Es importante mencionar que *NO hay reingresos* en el total informado: se reportan solo ventas nuevas emitidas *HOY* a esta hora.',
     '',
@@ -4064,7 +4064,7 @@ function repMensaje(dia, mes, fecha, corte) {
     `• VIÑA: *${mes.vina}* RGU`,
     `• RM: *${mes.rm}* RGU`,
     `• OTROS: *${mes.otros}* RGU`,
-    `*TOTAL EMISIONES VPRIME: ${mes.total} RGU*`,
+    `*TOTAL EMISIONES NOVAVENTAS: ${mes.total} RGU*`,
     '',
     cierre ? `CERRAMOS CON UN TOTAL DE *${dia.total} RGU* 🍀🍀 Que descansen, hasta mañana 🍀🍀` : `A esta hora llevamos *${dia.total} RGU* emitidos hoy 💪`,
   ].join('\n');
@@ -4109,7 +4109,7 @@ async function renderRepBody() {
       <tr style="cursor:default;background:${claro}"><td>TOTAL PRODUCTOS ${esc(REP.vina.toUpperCase())} · V REGIÓN</td><td class="num" style="text-align:center;font-size:16px">${t.vina}</td></tr>
       <tr style="cursor:default;background:${claro}"><td>TOTAL PRODUCTOS ${esc(REP.rm.toUpperCase())} · RM</td><td class="num" style="text-align:center;font-size:16px">${t.rm}</td></tr>
       <tr style="cursor:default;background:${claro}"><td>OTROS</td><td class="num" style="text-align:center;font-size:16px">${t.otros}</td></tr>
-      <tr style="cursor:default;background:${fuerte}"><td><b>TOTAL EMISIONES VPRIME</b></td><td class="num" style="text-align:center;font:800 20px var(--font-display)">${t.total}</td></tr>
+      <tr style="cursor:default;background:${fuerte}"><td><b>TOTAL EMISIONES NOVAVENTAS</b></td><td class="num" style="text-align:center;font:800 20px var(--font-display)">${t.total}</td></tr>
     </tbody></table></div></div>`;
   const ventasDia = lista.filter(v => v.fecha === REP.fecha).length;
   box.innerHTML = `
@@ -4141,7 +4141,7 @@ async function repImagen(dia, mes, mesKey) {
   const x = c.getContext('2d'); x.scale(2, 2);
   x.fillStyle = '#ffffff'; x.fillRect(0, 0, W, H);
   const tabla = (ox, titulo, t, head, claro, fuerte) => {
-    const w = 590, rh = 44; const filas = [[`TOTAL PRODUCTOS ${REP.vina.toUpperCase()} · V REGIÓN`, t.vina], [`TOTAL PRODUCTOS ${REP.rm.toUpperCase()} · RM`, t.rm], ['OTROS', t.otros], ['TOTAL EMISIONES VPRIME', t.total]];
+    const w = 590, rh = 44; const filas = [[`TOTAL PRODUCTOS ${REP.vina.toUpperCase()} · V REGIÓN`, t.vina], [`TOTAL PRODUCTOS ${REP.rm.toUpperCase()} · RM`, t.rm], ['OTROS', t.otros], ['TOTAL EMISIONES NOVAVENTAS', t.total]];
     x.fillStyle = head; x.fillRect(ox, 30, w, rh); x.fillStyle = '#fff'; x.font = '700 16px Inter, Arial, sans-serif'; x.textBaseline = 'middle'; x.fillText(titulo, ox + 14, 30 + rh / 2);
     filas.forEach(([l, v], i) => {
       const y = 30 + rh * (i + 1), last = i === 3;
@@ -4153,12 +4153,12 @@ async function repImagen(dia, mes, mesKey) {
   };
   tabla(20, `TOTAL MENSUAL SIN REMISIÓN NI TICKET TSQ · ${mesLabel(mesKey).toUpperCase()}`, mes, '#38761d', '#d9ead3', '#93c47d');
   tabla(630, `TOTAL DIARIO SIN REMISIÓN · ${fmtFecha(REP.fecha)} · ${REP.corte} HRS`, dia, '#990000', '#f4cccc', '#ffc000');
-  x.fillStyle = '#666'; x.font = '500 13px Inter, Arial, sans-serif'; x.fillText('VPrime · valores en RGU (productos) · generado desde el portal', 20, H - 24);
+  x.fillStyle = '#666'; x.font = '500 13px Inter, Arial, sans-serif'; x.fillText('NovaVentas · valores en RGU (productos) · generado desde el portal', 20, H - 24);
   const blob = await new Promise(r => c.toBlob(r, 'image/png'));
-  const nombre = `Reporte_VPrime_${REP.fecha}_${REP.corte.replace(':', '')}.png`;
+  const nombre = `Reporte_NovaVentas_${REP.fecha}_${REP.corte.replace(':', '')}.png`;
   try {
     const file = new File([blob], nombre, { type: 'image/png' });
-    if (navigator.canShare && navigator.canShare({ files: [file] })) { await navigator.share({ files: [file], title: 'Reporte VPrime' }); return; }
+    if (navigator.canShare && navigator.canShare({ files: [file] })) { await navigator.share({ files: [file], title: 'Reporte NovaVentas' }); return; }
   } catch (e) { if (e && e.name === 'AbortError') return; }
   const dl = window.claude && typeof window.claude.use === 'function' ? await window.claude.use('downloads') : null;
   if (!dl) { toast('La descarga de la imagen funciona en el portal publicado o en la app.', 'alertc'); return; }
@@ -4842,7 +4842,7 @@ const STANDALONE = !!window.VP_STANDALONE;
 if (STANDALONE) {
   $('#lgSub').textContent = 'Entra con el correo y la contraseña que te entregó tu supervisor.';
   $('#lgUserLbl').textContent = 'Correo';
-  $('#lgUser').value = ''; $('#lgUser').type = 'email'; $('#lgUser').setAttribute('autocomplete', 'email'); $('#lgUser').placeholder = 'nombre@vprime.cl';
+  $('#lgUser').value = ''; $('#lgUser').type = 'email'; $('#lgUser').setAttribute('autocomplete', 'email'); $('#lgUser').placeholder = 'nombre@novaventas.cl';
   $('#lgPass').value = '';
   $('#lgHint').hidden = true;
   $('#lgForgotBox').innerHTML = '<button type="button" class="btn ghost sm" id="lgForgot" style="height:auto;padding:4px 8px;color:var(--cyan)">¿Olvidaste tu contraseña?</button>';
@@ -4883,7 +4883,7 @@ function pedirRecuperacion(email0) {
   const d = document.createElement('div'); d.id = 'logoutDlg'; d.setAttribute('role', 'dialog'); d.setAttribute('aria-modal', 'true');
   d.innerHTML = `<form class="box" id="rcvForm" novalidate style="text-align:left;justify-items:stretch"><h3 style="text-align:center">Recuperar contraseña</h3>
     <p style="margin:0">Escribe tu correo y te enviaremos un enlace para crear una contraseña nueva.</p>
-    <div class="field"><label for="rcvMail">Correo</label><input class="input" type="email" id="rcvMail" autocomplete="email" value="${esc(email0 || '')}" placeholder="nombre@vprime.cl"></div>
+    <div class="field"><label for="rcvMail">Correo</label><input class="input" type="email" id="rcvMail" autocomplete="email" value="${esc(email0 || '')}" placeholder="nombre@novaventas.cl"></div>
     <div id="rcvMsg"></div>
     <div class="row"><button type="button" class="btn ghost" id="rcvNo">Cerrar</button><button type="submit" class="btn primary" id="rcvSi">Enviar enlace</button></div>
     <p class="note" style="margin:0">Revisa también la carpeta de spam. Si no te llega en unos minutos, pide a un administrador del portal que te asigne una clave temporal.</p></form>`;
@@ -4991,7 +4991,7 @@ if (STANDALONE) {
 })();
 </script>
 <style>
-#installBtn, #installHint, #chgPass { display: none !important; }
+#installBtn, #installHint, #chgPass, #globe, #logo3d { display: none !important; }
 .demo-pill { position: fixed; left: 50%; transform: translateX(-50%); bottom: calc(12px + env(safe-area-inset-bottom, 0px)); z-index: 80; display: flex; gap: 10px; align-items: center; padding: 8px 10px 8px 16px; border-radius: 999px; background: rgba(10, 16, 32, .92); border: 1px solid #34476f; color: #dbe3f3; font: 600 13px Inter, system-ui, sans-serif; box-shadow: 0 12px 30px -10px rgba(0, 0, 0, .8); white-space: nowrap; }
 .demo-pill a { color: #0a1020; background: #22c3e6; padding: 6px 12px; border-radius: 999px; text-decoration: none; }
 @media (max-width: 900px) { .demo-pill { bottom: calc(86px + env(safe-area-inset-bottom, 0px)); font-size: 12px; } .demo-pill span { display: none; } }

diff --git a/index.html b/index.html
@@ -302,10 +302,10 @@ footer{padding:36px 0 46px;text-align:center;color:var(--muted);font-size:14px}
           <span class="num">P-01 · Producto real en uso · Ventas y datos</span>
           <h3>Portal de Ventas</h3>
           <span class="kind">App para equipos de venta de telecomunicaciones</span>
-          <p class="desc">Diseñé y programé la app interna con la que el equipo de backoffice y supervisores de VPrime (distribuidor de VTR y Claro) deja las planillas de Excel: ingreso de ventas, seguimiento de instalaciones y calidad de boletas, en web, Android y iPhone.</p>
+          <p class="desc">Diseñé y programé una app interna para un distribuidor de servicios de telecomunicaciones: su equipo de backoffice y supervisores deja las planillas de Excel y lleva el ingreso de ventas, el seguimiento de instalaciones y la calidad de boletas en web, Android y iPhone.</p>
           <ul>
             <li>Reemplaza más de 5 planillas: cada venta queda en una base de datos con historial de cambios y respaldo diario.</li>
-            <li>Cruza las ventas con el maestro de VTR/Claro y arma solo los reportes del día, las alertas y los reingresos.</li>
+            <li>Cruza las ventas con el reporte de la compañía y arma solo los reportes del día, las alertas y los reingresos.</li>
             <li>Cada supervisor ve su % de boletas pagadas en plazo y llama al cliente con un toque antes de su día 8.</li>
             <li>Permisos por rol en la base (Row Level Security), funciona sin señal y se instala como app Android.</li>
           </ul>
@@ -314,7 +314,7 @@ footer{padding:36px 0 46px;text-align:center;color:var(--muted);font-size:14px}
             <a class="btn primary magnetic" href="portal-ventas/#dashboard" target="_blank" rel="noopener"><span>Probar la demo →</span></a>
             <a class="btn magnetic" href="#servicios"><span>Quiero uno para mi empresa</span></a>
           </div>
-          <p class="demo-note">La demo usa datos 100% ficticios y no guarda cambios. Usa el selector «Ver como supervisor» para ver la app de un supervisor.</p>
+          <p class="demo-note">La demo usa una marca, nombres y datos 100% ficticios, y no guarda cambios. Usa el selector «Ver como supervisor» para ver la app de un supervisor.</p>
         </div>
         <div class="visual duo">
           <img class="desk" src="img/portal-ventas-dashboard.webp" alt="Dashboard del Portal de Ventas: ventas brutas, instaladas, canceladas, pendientes y límites del mes" width="1600" height="1000" loading="lazy">
@@ -431,7 +431,6 @@ footer{padding:36px 0 46px;text-align:center;color:var(--muted);font-size:14px}
         <p class="when">Sep 2026 — Actualidad</p>
         <h3>VPrime <span>· Ejecutivo de BackOffice (servicios para Claro VTR)</span></h3>
         <ul>
-          <li>Diseñé y desarrollé el <a href="#portal-ventas" style="color:var(--a1);font-weight:600">Portal de Ventas</a> que reemplazó las planillas de Excel del equipo: ventas, seguimiento de instalaciones y calidad de boletas por supervisor.</li>
           <li>Soporte al equipo de ventas y resolución de incidencias del proceso de venta.</li>
           <li>Ingreso y validación de ventas en sistemas, cuidando la calidad de los datos.</li>
           <li>Seguimiento de las visitas asociadas a cada venta hasta su cierre.</li>

diff --git a/portal-ventas/demo-datos.js b/portal-ventas/demo-datos.js
@@ -70,7 +70,7 @@
   const fila = (v, estado, planMae, prodsMae, rguMae) => {
     const g = rguMae || v.cantidad, canc = estado === 'Cancelado' ? g : 0, ins = estado === 'Completada' ? g : 0;
     return [v.pedido, v.rut, v.marca === 'Claro' ? 'CLARO' : 'VTR', estado, v.fecha, estado === 'Completada' ? (v.instalado || v.fecha) : '', v.regMae || 'REGION METROPOLITANA', v.comuna,
-      pick(BACKOFFICE), 'Coordinación VTR', planMae, prodsMae, g, g, canc, g - canc, ins, 1, canc ? 0 : 1, ins ? 1 : 0, canc ? 1 : 0, 'FTTH', 'Alta', 'VPRIME'];
+      pick(BACKOFFICE), 'Coordinación VTR', planMae, prodsMae, g, g, canc, g - canc, ins, 1, canc ? 0 : 1, ins ? 1 : 0, canc ? 1 : 0, 'FTTH', 'Alta', 'NOVAVENTAS'];
   };
   ventas.filter(v => v.mes === MES && v.fecha < HOY).forEach((v, i) => {
     const P = PRODUCTOS.find(p => p[0] === v.producto), c = COMUNAS.concat(SUR).find(x => x[0] === v.comuna);
